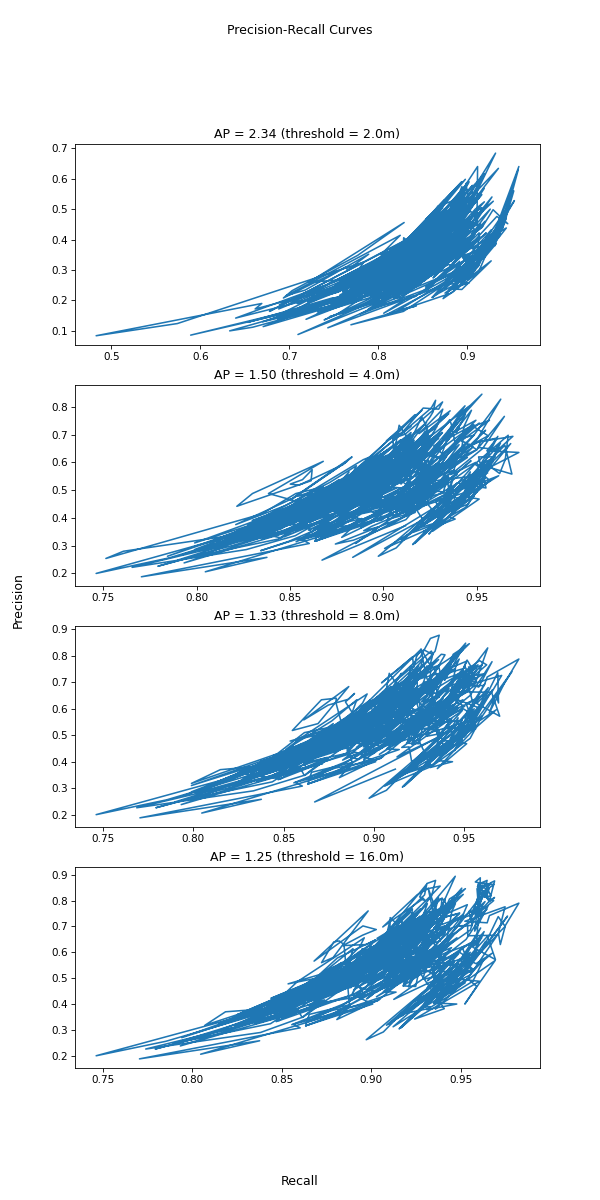
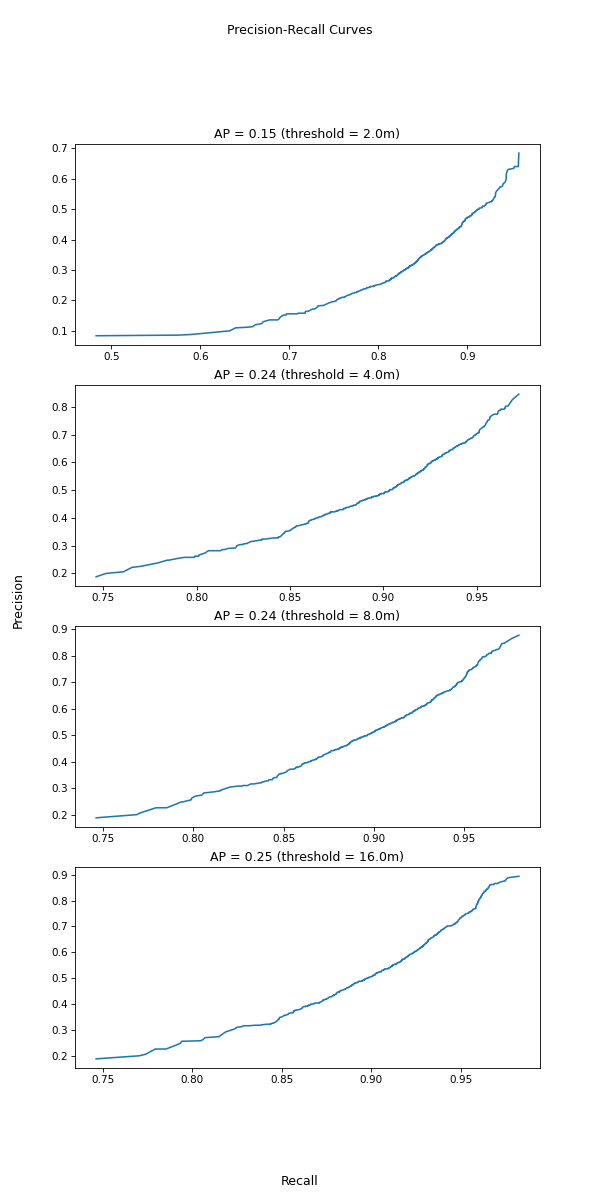
iii

diff --git a/detection/metrics/average_precision.py b/detection/metrics/average_precision.py
@@ -108,8 +108,14 @@ def compute_precision_recall_curve(
         FN += labels.size()[0] - torch.count_nonzero(labels_record)
         precision.append(TP / (TP + FP))
         recall.append(TP / (TP + FN))
-    print(1, len(precision), len(recall))
-    return PRCurve(torch.tensor(precision), torch.tensor(recall))
+    pre = torch.tensor(precision)
+    rec = torch.tensor(recall)
+    print(pre, rec)
+    pre_sorted, pre_ind = torch.sort(pre)
+    print(pre)
+    rec_sorted, rec_ind= torch.sort(rec)
+    print(rec)
+    return PRCurve(pre_sorted, rec_sorted)
 
 
 def compute_area_under_curve(curve: PRCurve) -> float:
